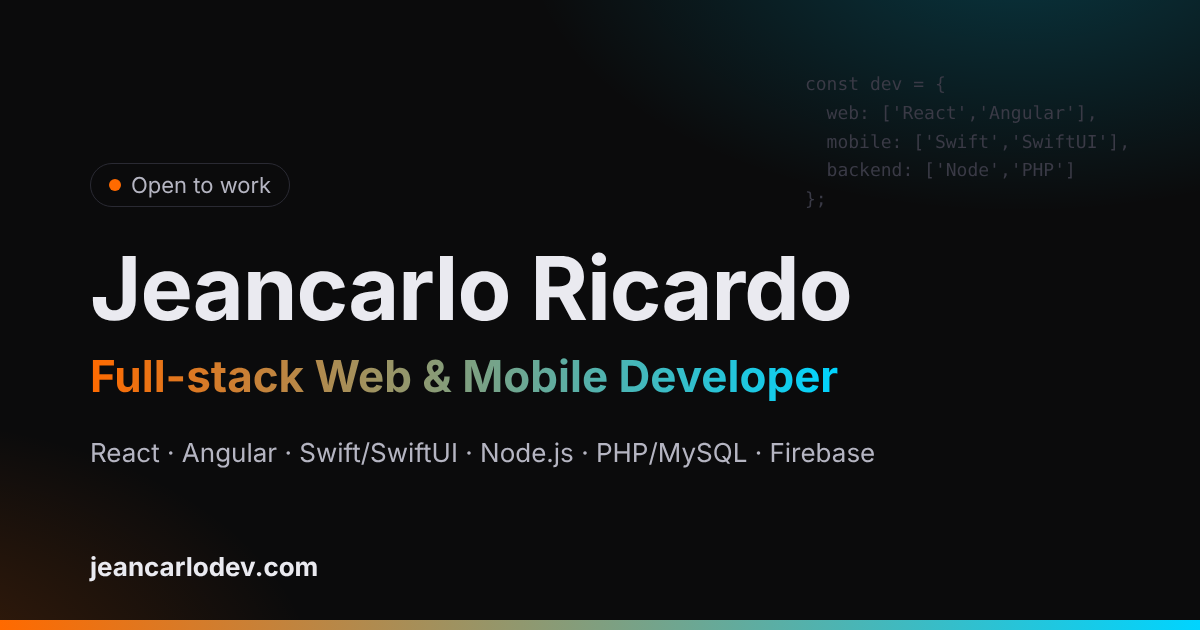
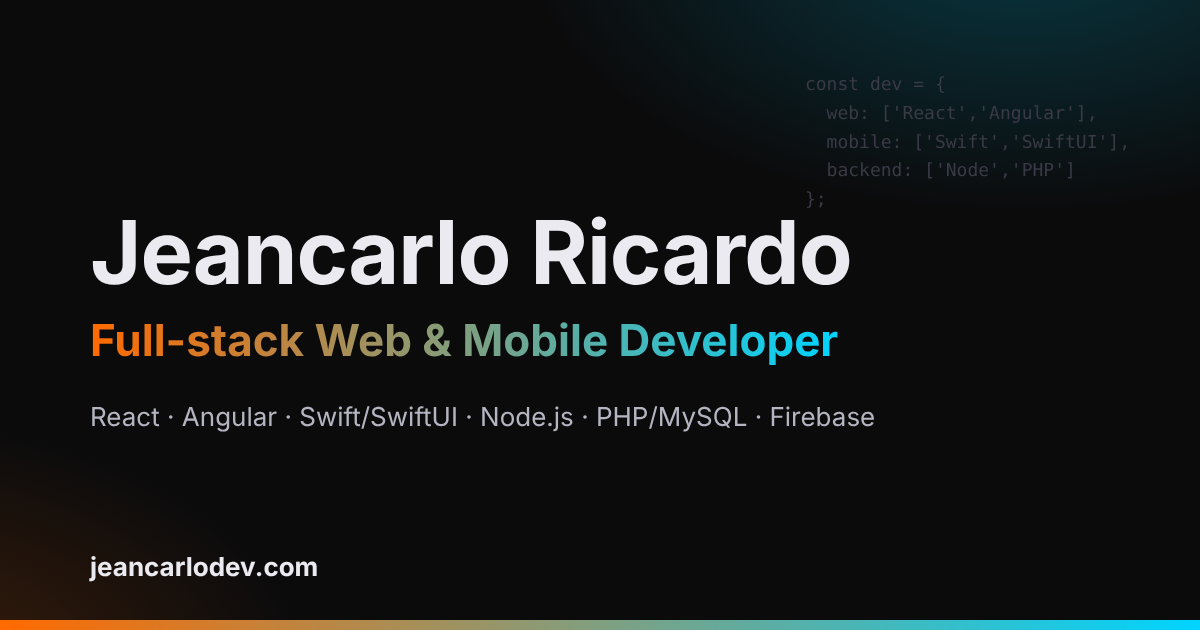
Update social preview image

Changed region(s): [[0.0617, 0.3317, 0.74, 0.754], [0.0925, 0.2714, 0.2467, 0.3317]]

diff --git a/index.html b/index.html
@@ -17,7 +17,7 @@
   <meta property="og:url" content="https://jeancarlodev.com/" />
   <meta property="og:title" content="Jeancarlo Ricardo — Full-stack Web & Mobile Developer" />
   <meta property="og:description" content="Web and native iOS apps built end to end. See my projects, experience and resume." />
-  <meta property="og:image" content="https://jeancarlodev.com/assets/images/og-image.png" />
+  <meta property="og:image" content="https://jeancarlodev.com/assets/images/og-image.png?v=2" />
   <meta property="og:image:width" content="1200" />
   <meta property="og:image:height" content="630" />
   <meta name="twitter:card" content="summary_large_image" />
